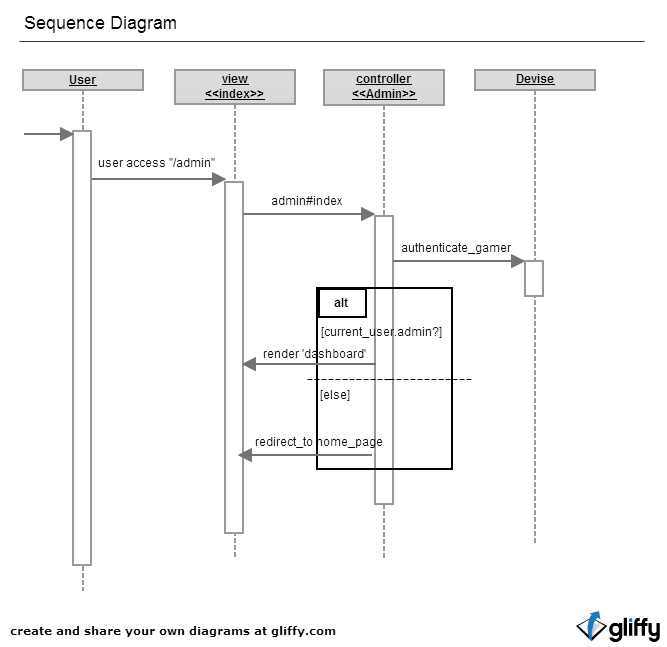
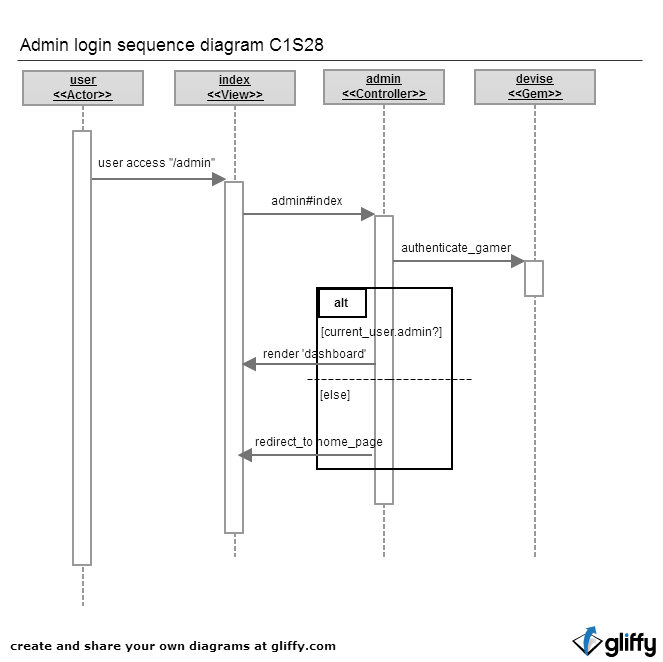
[348][WD] fixed uml and code conventions

diff --git a/arability/app/controllers/admin_controller.rb b/arability/app/controllers/admin_controller.rb
@@ -1,8 +1,8 @@
 #encoding: UTF-8
 class AdminController < ApplicationController
   protect_from_forgery
-  layout 'admin'
-  require 'csv'
+  layout "admin"
+  require "csv"
   include AdminHelper
 
   before_filter :authenticate_gamer!
@@ -49,7 +49,7 @@ class AdminController < ApplicationController
   def list_prizes
     @prizes_list = Prize.all
   end
-  
+
   # Author:
   #   Karim ElNaggar
   # Description:
